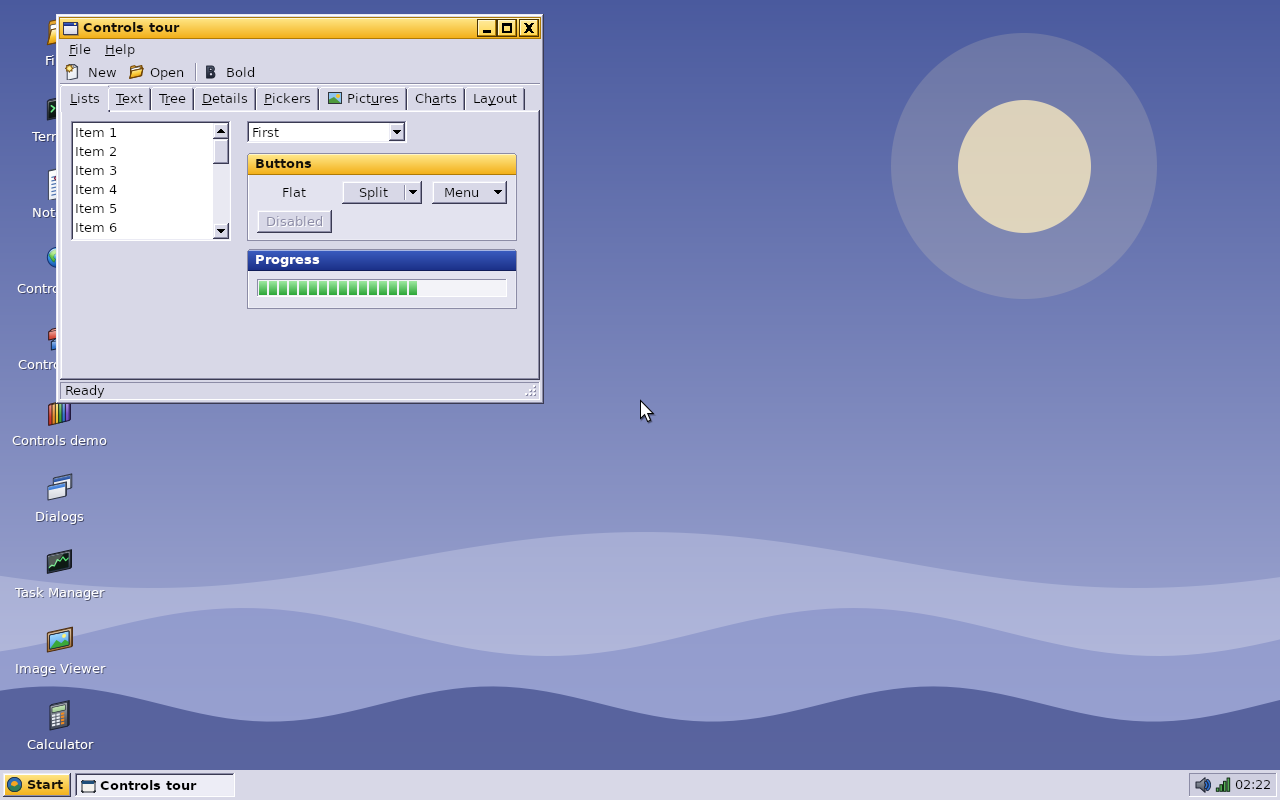
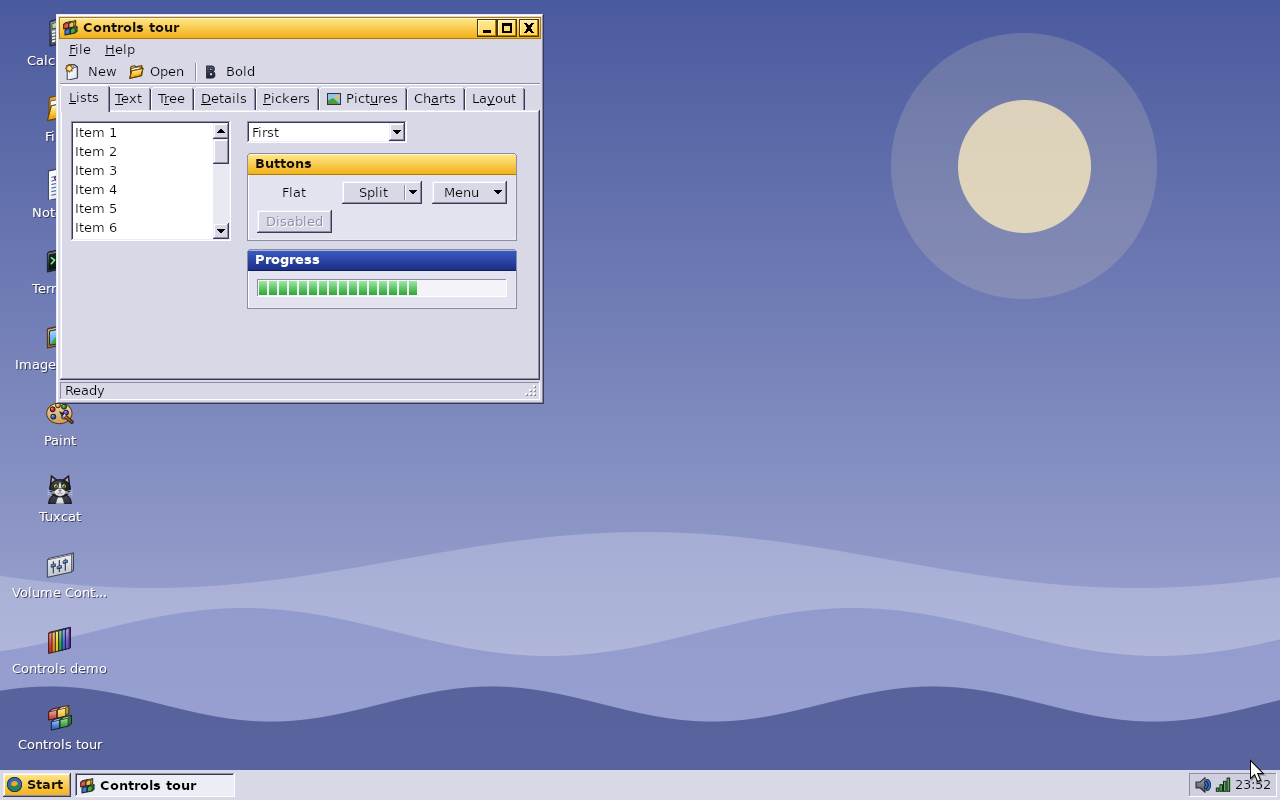
README screenshots: Tuxcat on Wikipedia and running WebAssembly (a Mandelbrot page and its module's source), the OpenGL gears and Vulkan cube, Lua and SQLite in the terminal, the not-responding dialog; the others retaken; the screenshot machine has 4 GiB, carries docs/screenshots/pages and types eve

diff --git a/docs/screenshots/pages/webassembly.html b/docs/screenshots/pages/webassembly.html
@@ -1,0 +1,52 @@
+<!DOCTYPE html>
+<!-- Tuxcat running WebAssembly, for the README's screenshot: the module is
+     mandelbrot.wat beside this file, encoded with tools/WasmSpecTest
+     (--dump) and embedded below. -->
+<html lang="en">
+<head>
+<meta charset="utf-8">
+<title>WebAssembly in Tuxcat</title>
+<style>
+  body { margin: 0; font: 15px/1.5 sans-serif; background: #f4f2fb; color: #222; }
+  header { padding: 16px 28px; background: linear-gradient(#5b4b9a, #43357a); color: #fff; }
+  header h1 { margin: 0; font-size: 22px; }
+  main { display: flex; gap: 24px; padding: 20px 28px; align-items: flex-start; }
+  canvas { border-radius: 10px; box-shadow: 0 4px 14px rgba(0, 0, 0, 0.25); }
+  aside { flex: 1; background: #fff; border-radius: 10px; padding: 14px 18px;
+          box-shadow: 0 1px 4px rgba(0, 0, 0, 0.15); }
+  code { background: #ece8f8; padding: 1px 5px; border-radius: 4px; }
+  dt { font-weight: bold; margin-top: 8px; }
+</style>
+</head>
+<body>
+<header><h1>The Mandelbrot set, drawn by WebAssembly</h1></header>
+<main>
+  <canvas id="picture" width="560" height="420"></canvas>
+  <aside>
+    <p>A 394 byte WebAssembly module computes every pixel; the page copies
+       its memory into the canvas with <code>putImageData</code>.</p>
+    <dl>
+      <dt>Size</dt><dd id="size"></dd>
+      <dt>Iterations</dt><dd id="iterations"></dd>
+      <dt>Time</dt><dd id="time">computing...</dd>
+      <dt>Engine</dt><dd>libwasm: WebAssembly 3.0, run by the system's own interpreter</dd>
+    </dl>
+  </aside>
+</main>
+<script>
[1 lines of base64/hex data omitted]
+const canvas = document.getElementById("picture");
+const iterations = 200;
+WebAssembly.instantiate(moduleBytes).then(({ instance }) => {
+  const started = performance.now();
+  instance.exports.render(canvas.width, canvas.height, iterations);
+  const elapsed = performance.now() - started;
+  const pixels = new Uint8ClampedArray(instance.exports.memory.buffer, 0, canvas.width * canvas.height * 4);
+  canvas.getContext("2d").putImageData(new ImageData(pixels, canvas.width, canvas.height), 0, 0);
+  document.getElementById("size").textContent = canvas.width + " x " + canvas.height + " pixels";
+  document.getElementById("iterations").textContent = "up to " + iterations + " per pixel";
+  document.getElementById("time").textContent = elapsed.toFixed(0) + " ms";
+});
+</script>
+</body>
+</html>

diff --git a/scripts/take-screenshots.py b/scripts/take-screenshots.py
@@ -42,7 +42,9 @@ output directory is docs/screenshots. A plan is a JSON list of steps:
 The plans for the README's screenshots are in docs/screenshots/plans.
 A sample picture (a drawn landscape, sample.png) is put on the EFI
 partition, which the system mounts at /volumes/disk0p1, for plans that
-open a picture.
+open a picture; so are the pages of docs/screenshots/pages, under
+/volumes/disk0p1/pages, for plans that open one in Tuxcat. The machine
+has 4 GiB, enough for the browser on real sites.
 """
 
 import json
@@ -65,7 +67,12 @@ FIRMWARE_VARIABLES = '/usr/share/edk2/x64/OVMF_VARS.4m.fd'
 # QEMU key names for characters that are not their own name.
 KEY_NAMES = {' ': 'spc', '-': 'minus', '.': 'dot', '/': 'slash', '\n': 'ret', '=': 'equal', ',': 'comma',
              '*': 'shift-8', '(': 'shift-9', ')': 'shift-0', '+': 'shift-equal', '_': 'shift-minus',
-             '|': 'shift-backslash', '~': 'shift-grave_accent', '&': 'shift-7'}
+             '|': 'shift-backslash', '~': 'shift-grave_accent', '&': 'shift-7',
+             "'": 'apostrophe', '"': 'shift-apostrophe', ';': 'semicolon', ':': 'shift-semicolon',
+             '^': 'shift-6', '%': 'shift-5', '$': 'shift-4', '#': 'shift-3', '@': 'shift-2', '!': 'shift-1',
+             '[': 'bracket_left', ']': 'bracket_right', '{': 'shift-bracket_left', '}': 'shift-bracket_right',
+             '<': 'shift-comma', '>': 'shift-dot', '?': 'shift-slash', '\\': 'backslash', '`': 'grave_accent',
+             '\t': 'tab'}
 
 
 def draw_sample_picture(path):
@@ -102,12 +109,15 @@ class Machine:
         with open(os.path.join(esp, 'FreePascalOS', 'options.txt'), 'w') as options:
             options.write('autologin=user\n')
         draw_sample_picture(os.path.join(esp, 'sample.png'))
+        pages = os.path.join(root, 'docs/screenshots/pages')
+        if os.path.isdir(pages):
+            shutil.copytree(pages, os.path.join(esp, 'pages'))
         shutil.copy(os.path.join(root, 'build/amd64/system-disk.img'), os.path.join(work, 'system.img'))
         shutil.copy(FIRMWARE_VARIABLES, os.path.join(work, 'vars.fd'))
         for suffix in ('.in', '.out'):
             os.mkfifo(os.path.join(work, 'serial' + suffix))
         self.process = subprocess.Popen(
-            ['qemu-system-x86_64', '-machine', 'q35', '-accel', 'kvm', '-cpu', 'host', '-m', '1G', '-smp', '4',
+            ['qemu-system-x86_64', '-machine', 'q35', '-accel', 'kvm', '-cpu', 'host', '-m', '4G', '-smp', '4',
              '-drive', 'if=pflash,format=raw,readonly=on,file=' + FIRMWARE_CODE,
              '-drive', 'if=pflash,format=raw,file=vars.fd',
              '-drive', 'format=raw,file=fat:rw:esp',

diff --git a/README.md b/README.md
@@ -21,10 +21,19 @@ taken by `scripts/take-screenshots.py` from the plans in
 
 | | |
 |---|---|
-| ![A terminal running sysinfo](docs/screenshots/sysinfo.png) | ![The controls tour](docs/screenshots/controls.png) |
-| A terminal running `sysinfo` | The controls tour: banded group boxes, split buttons, progress |
-| ![Files and the image viewer](docs/screenshots/files-viewer.png) | ![Paint and the calculator](docs/screenshots/paint-calculator.png) |
-| Files and the image viewer | Paint and the calculator |
+| ![Tuxcat on Wikipedia](docs/screenshots/tuxcat-wikipedia.png) | ![Tuxcat running WebAssembly](docs/screenshots/tuxcat-webassembly.png) |
+| Tuxcat, the web browser, on Wikipedia | Tuxcat running WebAssembly: a 394 byte module draws the Mandelbrot set ([source](docs/screenshots/pages)) |
+| ![OpenGL gears and a Vulkan cube](docs/screenshots/gears-cube.png) | ![Lua and SQLite in the terminal](docs/screenshots/c-programs.png) |
+| OpenGL gears and a Vulkan cube, rendered by the Mesa port | Ported C programs in the terminal: Lua and SQLite |
+| ![A program that stopped responding](docs/screenshots/not-responding.png) | ![Files and the image viewer](docs/screenshots/files-viewer.png) |
+| A program that stopped responding: End task or Wait, with the Task Manager | Files and the image viewer |
+| ![A terminal running sysinfo](docs/screenshots/sysinfo.png) | ![Paint and the calculator](docs/screenshots/paint-calculator.png) |
+| A terminal running `sysinfo` | Paint and the calculator |
+| ![The controls tour](docs/screenshots/controls.png) | |
+| The controls tour: banded group boxes, split buttons, progress | |
+
+The gears, the cube and the C programs need the C toolchain (`make
+c-toolchain`); without it `make system-disk` leaves those ports out.
 
 ## What works today
 

diff --git a/TODO.md b/TODO.md
@@ -1578,6 +1578,11 @@ cortex-a72` (see "The AArch64 port" in docs/Architecture.md).
 - [ ] Shared memories and threads, stack switching and the other post-3.0 proposals
 - [ ] Faster SIMD (whole-vector operations instead of lane loops); caching compiled modules
 
+- [ ] sh's line editor scrolls a line longer than the terminal sideways instead of wrapping it, and the
+      line stays scrolled after Enter (only its tail is left on the screen)
+- [ ] Terminal: box drawing joins (sqlite3 -box): the double rule under a header runs through the vertical
+      lines instead of meeting them
+
 ## Tooling
 
 - [x] `make test`: boot headless in QEMU, fail on panic or missing self-test results
